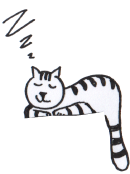
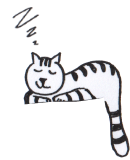
Changement de la position du chat

Changed region(s): [[0.0, 0.0312, 1.0, 1.0], [0.2462, 0.0625, 0.3077, 0.125]]

diff --git a/main.py b/main.py
@@ -31,7 +31,7 @@ bggameover = pygame.image.load("bkgameover.png")
 defaultJoueurPosition = Rect(50, ECRAN_HAUTEUR - 200, 60, 100)#position du joueur par default : (x,y,longueur,hauteur)
 bg = pygame.image.load("background.png")
 defaultEnemyMargotPosition = Rect(240,402,60,110)
-defaultEnemyChatPosition = Rect(850, 36, 60, 110)
+defaultEnemyChatPosition = Rect(163, 0, 60, 110)
 font = pygame.font.Font(None,36)
 textscore = font.render("Score:",1,(100,100,100))
 
@@ -179,6 +179,7 @@ class Level(object):#Classe Niveau en general
         joueur.rect = copy.deepcopy(defaultJoueurPosition)#on utilise copy.deepcopy car faire joueur.rect = defaultJoueurPosition ne fonctionne pas, il ne prend pas la valeur
         projectile.tir = False
         enemymargot.rect = copy.deepcopy(defaultEnemyMargotPosition)
+        enemychat.rect = copy.deepcopy(defaultEnemyChatPosition)
         score = 0
         bg = pygame.image.load("background.png")
 
